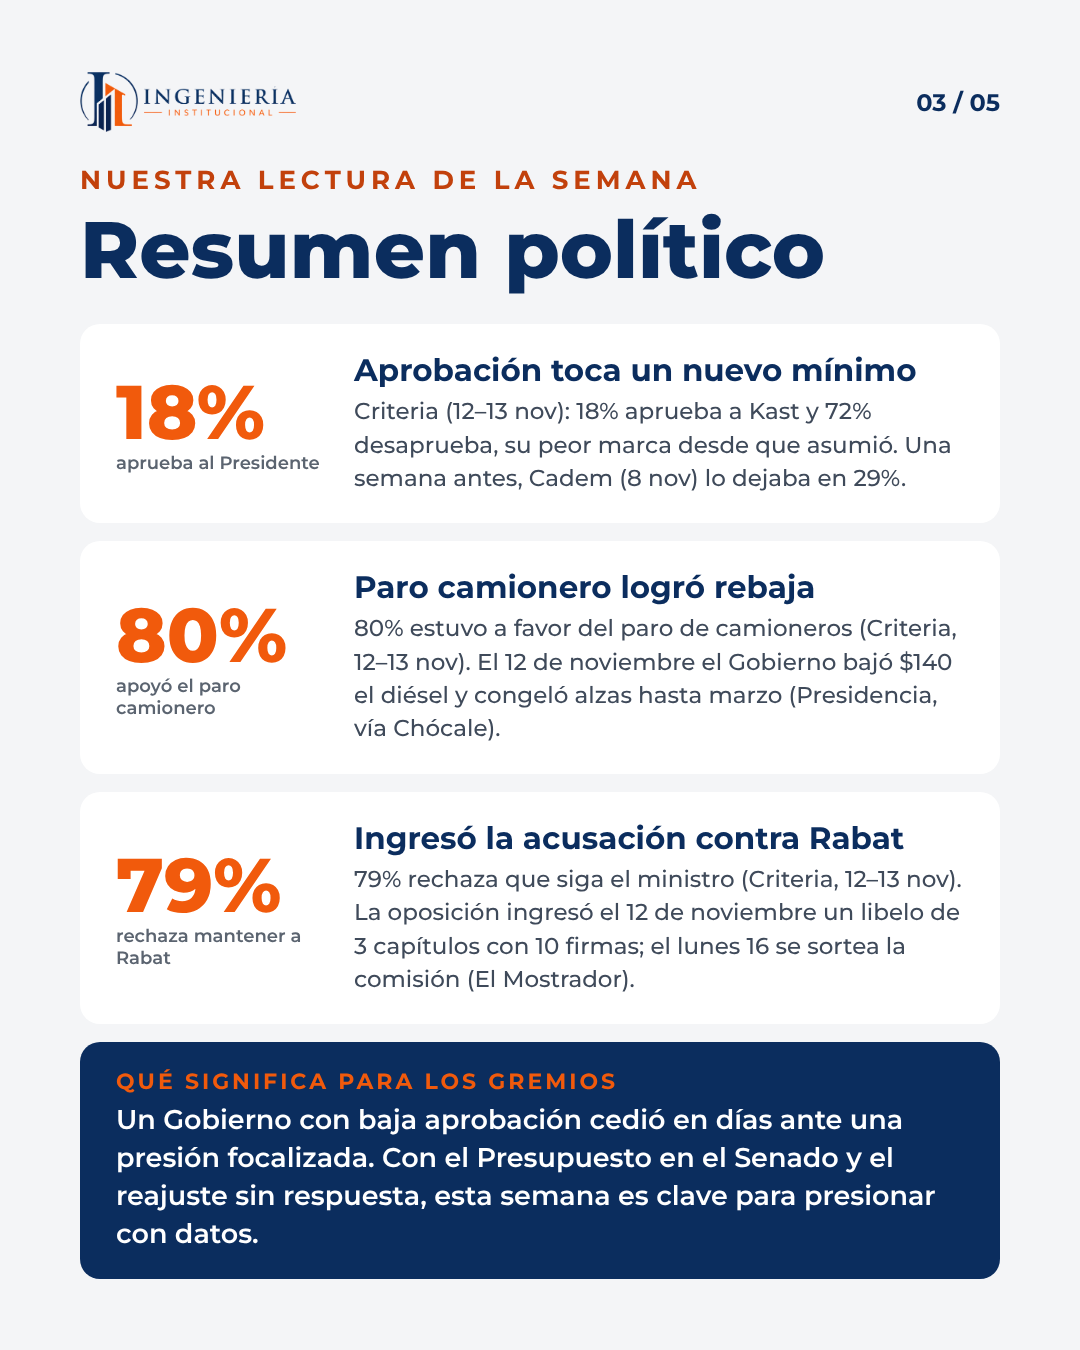
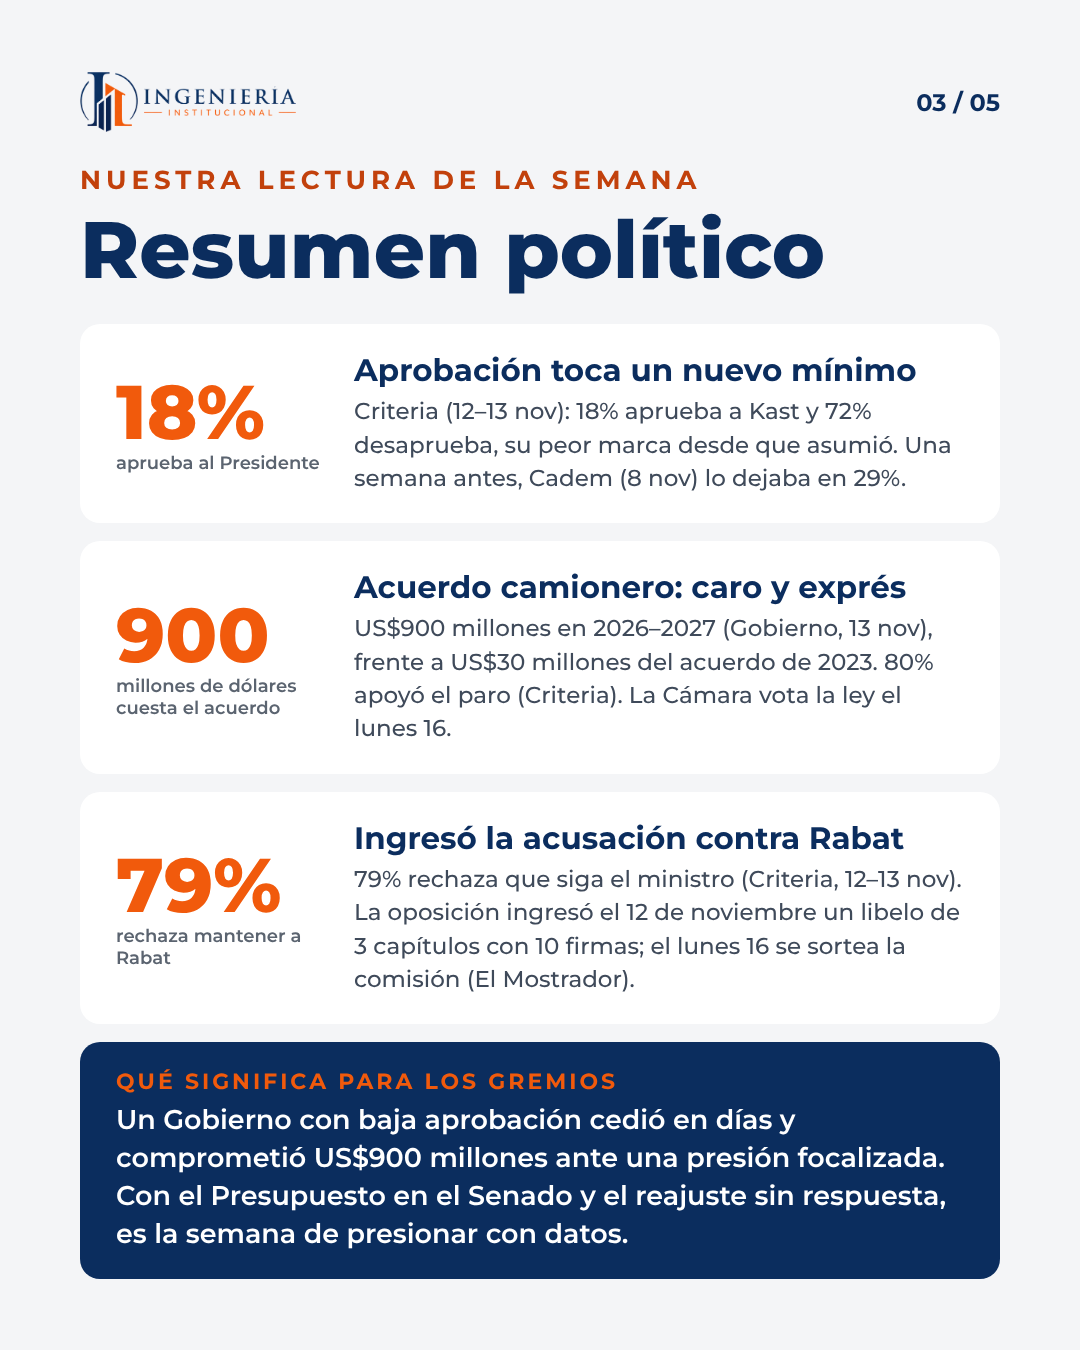
Edición N° 2: cambios pedidos en revisión
- Presupuesto: siete partidas rechazadas con sus motivos, endeudamiento y servicios afectados
- Nuevo frente: ley de combustibles (acuerdo camionero, costo y tabla del lunes 16)
- Sección renombrada a «Datos en fácil» y datos nuevos, sin repetir la edición anterior

Changed region(s): [[0.0917, 0.8089, 0.8861, 0.9333], [0.3361, 0.4044, 0.8861, 0.56], [0.0917, 0.4356, 0.275, 0.5289]]

diff --git a/ediciones/2026-11-16/carrusel/index.html b/ediciones/2026-11-16/carrusel/index.html
@@ -10,7 +10,7 @@ figure{margin:0;background:#fff;border-radius:12px;padding:12px}img{width:100%;h
 <h1>Carrusel · Edición N° 2 · 16 al 20 de noviembre de 2026</h1>
 <p>Láminas de 1080 × 1350 px para Instagram, LinkedIn o WhatsApp.</p>
 <div class="grid"><figure><img src="01-portada.png" alt="01-portada" loading="lazy"><figcaption><a href="01-portada.png" download>Descargar 01-portada.png</a></figcaption></figure>
-<figure><img src="02-economia-en-facil.png" alt="02-economia-en-facil" loading="lazy"><figcaption><a href="02-economia-en-facil.png" download>Descargar 02-economia-en-facil.png</a></figcaption></figure>
+<figure><img src="02-datos-en-facil.png" alt="02-datos-en-facil" loading="lazy"><figcaption><a href="02-datos-en-facil.png" download>Descargar 02-datos-en-facil.png</a></figcaption></figure>
 <figure><img src="03-resumen-politico.png" alt="03-resumen-politico" loading="lazy"><figcaption><a href="03-resumen-politico.png" download>Descargar 03-resumen-politico.png</a></figcaption></figure>
 <figure><img src="04-seguimiento-legislativo.png" alt="04-seguimiento-legislativo" loading="lazy"><figcaption><a href="04-seguimiento-legislativo.png" download>Descargar 04-seguimiento-legislativo.png</a></figcaption></figure>
 <figure><img src="05-noticias-de-la-semana.png" alt="05-noticias-de-la-semana" loading="lazy"><figcaption><a href="05-noticias-de-la-semana.png" download>Descargar 05-noticias-de-la-semana.png</a></figcaption></figure></div></main></body></html>

diff --git a/plantillas/carrusel.js b/plantillas/carrusel.js
@@ -107,7 +107,7 @@
     return s;
   }
 
-  // 02 Economía en fácil
+  // 02 Datos en fácil
   function economia() {
     const s = base('#F4F5F7');
     s.style.gap = '24px';
@@ -123,7 +123,7 @@
     });
     const pie = css(el('div'), `display:flex;align-items:center;gap:20px;font-size:20px;font-weight:600;color:${GRAY}`);
     pie.append(css(el('div'), `width:64px;height:5px;background:${ORANGE};border-radius:3px`), el('span', null, 'Fuentes: ' + (ed.economia.fuentes || '')));
-    s.append(encabezado(2), titulo('Datos en fácil', '¿Cómo está la economía?', 60), grid, cajaAzul('En síntesis', ed.economia.sintesis, 24), pie);
+    s.append(encabezado(2), titulo('Datos en fácil', ed.economia.titulo || 'Los datos de la semana', 60), grid, cajaAzul('En síntesis', ed.economia.sintesis, 24), pie);
     return s;
   }
 

diff --git a/index.html b/index.html
@@ -31,8 +31,8 @@
 
   <main id="ic-main">
     <section class="ic-panel" id="economia">
-      <div class="ic-sec"><span class="ic-sec-n">01.</span><h2>Economía en fácil</h2></div>
-      <p class="ic-intro">Cuatro preguntas para entender cómo está la economía.</p>
+      <div class="ic-sec"><span class="ic-sec-n">01.</span><h2>Datos en fácil</h2></div>
+      <p class="ic-intro">Cuatro datos clave para entender la semana.</p>
       <div class="ic-grid" id="ic-indicadores"></div>
       <div class="ic-sintesis"><span>En síntesis</span><p id="ic-econ-sintesis"></p></div>
     </section>

diff --git a/scripts/generar-carrusel.js b/scripts/generar-carrusel.js
@@ -24,7 +24,7 @@ const server = http.createServer((req, res) => {
   fs.createReadStream(file).pipe(res);
 });
 
-const nombres = ['01-portada', '02-economia-en-facil', '03-resumen-politico', '04-seguimiento-legislativo', '05-noticias-de-la-semana'];
+const nombres = ['01-portada', '02-datos-en-facil', '03-resumen-politico', '04-seguimiento-legislativo', '05-noticias-de-la-semana'];
 
 server.listen(0, '127.0.0.1', async () => {
   const port = server.address().port;

diff --git a/assets/site.js b/assets/site.js
@@ -72,7 +72,7 @@
     $('ic-frentes').append(c);
   });
 
-  // 01 Economía en fácil
+  // 01 Datos en fácil
   (ed.economia.indicadores || []).forEach((i) => {
     const c = el('article', 'ic-card ic-ind');
     c.append(el('h3', null, i.pregunta), el('span', 'ic-ind-val', i.valor), el('span', 'ic-light ' + i.semaforo, i.estado), rich('p', null, i.texto), el('span', 'ic-ind-src', 'Fuente: ' + i.fuente));

diff --git a/GUIA-EDITORIAL.md b/GUIA-EDITORIAL.md
@@ -9,7 +9,7 @@ Esta guía la sigue la tarea automática de cada domingo, y sirve también para 
 - **Formatos:** sitio web (este repositorio, con GitHub Pages) y carrusel de 5 imágenes (1080 × 1350).
 - **Ciclo:** se prepara el domingo y queda listo a las 21:00 como **borrador**. Se publica cuando Tomás Laibe o Andrés Smith lo aprueban, y se distribuye el lunes a primera hora.
 - **Secciones, en este orden:**
-  1. Economía en fácil (datos)
+  1. Datos en fácil (economía sobre todo, pero no solo: también otros datos duros de la semana)
   2. Resumen político
   3. Seguimiento legislativo
   4. Noticias de la semana
@@ -45,7 +45,7 @@ Como plantilla se usa la edición anterior: se copia su `edicion.json` y se actu
   - Para el sitio: `frente`, `pasos` (etapas separadas por `|`), `paso_actual` (empieza en 1), `en_que_va`, `que_viene`, `que_hacer` y `detalle` (opcional, más extenso).
   - Para el carrusel, en `carrusel`: `titulo`, `etiqueta` (la etapa, en pocas palabras), `color` (`"naranjo"` si hay una urgencia o algo en juego esta semana, `"azul"` si está en implementación o estable), `texto` (hasta unos 230 caracteres; se puede usar `**negrita**` en cifras clave) y `proximo` (el próximo hito con fecha).
   - Se arrastran los de la semana anterior: se actualizan, se sacan los cerrados y se agregan los nuevos relevantes para trabajadores del sector público. Máximo 4 con `carrusel`.
-- `economia.indicadores`: exactamente 4, en lenguaje simple. Cada uno con `pregunta`, `valor`, `semaforo` (`rojo`, `amarillo` o `verde`), `estado` (2 a 4 palabras), `texto` (hasta unos 130 caracteres) y `fuente`. Además, `economia.sintesis` (hasta unos 230 caracteres, que amarre los 4 datos) y `economia.fuentes`.
+- `economia.indicadores` (sección "Datos en fácil"): exactamente 4, en lenguaje simple. **No repetir los datos de la edición anterior**: cada semana se eligen los 4 datos más relevantes de esa semana; un dato ya publicado solo se repite si cambió o si es indispensable, y se explica qué hay de nuevo. Puede llevar `economia.titulo` (título de la lámina; por defecto "Los datos de la semana"). Cada uno con `pregunta`, `valor`, `semaforo` (`rojo`, `amarillo` o `verde`), `estado` (2 a 4 palabras), `texto` (hasta unos 130 caracteres) y `fuente`. Además, `economia.sintesis` (hasta unos 230 caracteres, que amarre los 4 datos) y `economia.fuentes`.
 - `noticias`: entre 10 y 18 notas, con `fecha` (AAAA-MM-DD), `tema`, `medio`, `titulo`, `resumen` (una línea propia) y `url` (https). Exactamente 6 llevan `carrusel: true` y `orden_carrusel` del 1 al 6; pueden llevar `titulo_carrusel` si el titular original es muy largo (máximo unos 95 caracteres).
 
 ## Producción paso a paso

diff --git a/README.md b/README.md
@@ -1,6 +1,6 @@
 # Radar Informativo · Ingeniería Institucional
 
-Lo que todo dirigente necesita saber para empezar la semana: economía en fácil, resumen político, seguimiento legislativo y noticias de la semana. Es un aporte semanal y de libre distribución de Ingeniería Institucional para la construcción de buena política pública.
+Lo que todo dirigente necesita saber para empezar la semana: datos en fácil, resumen político, seguimiento legislativo y noticias de la semana. Es un aporte semanal y de libre distribución de Ingeniería Institucional para la construcción de buena política pública.
 
 - **Sitio:** https://tlaibe.github.io/informe-contingencia/ (siempre muestra la edición vigente y permite revisar las anteriores).
 - **Carrusel:** cada edición tiene sus 5 imágenes en `ediciones/AAAA-MM-DD/carrusel/`.
